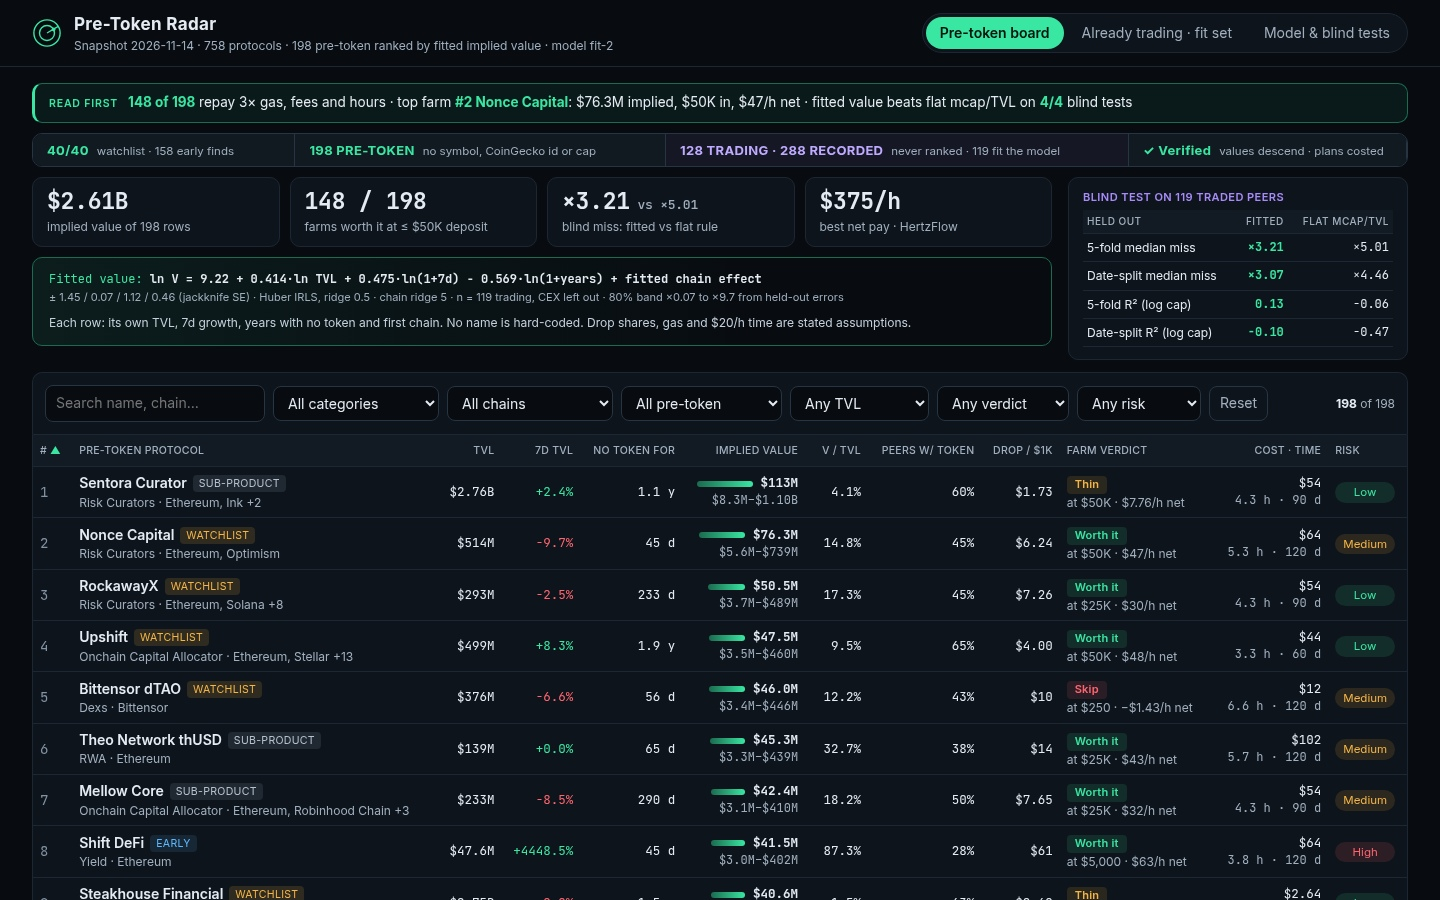
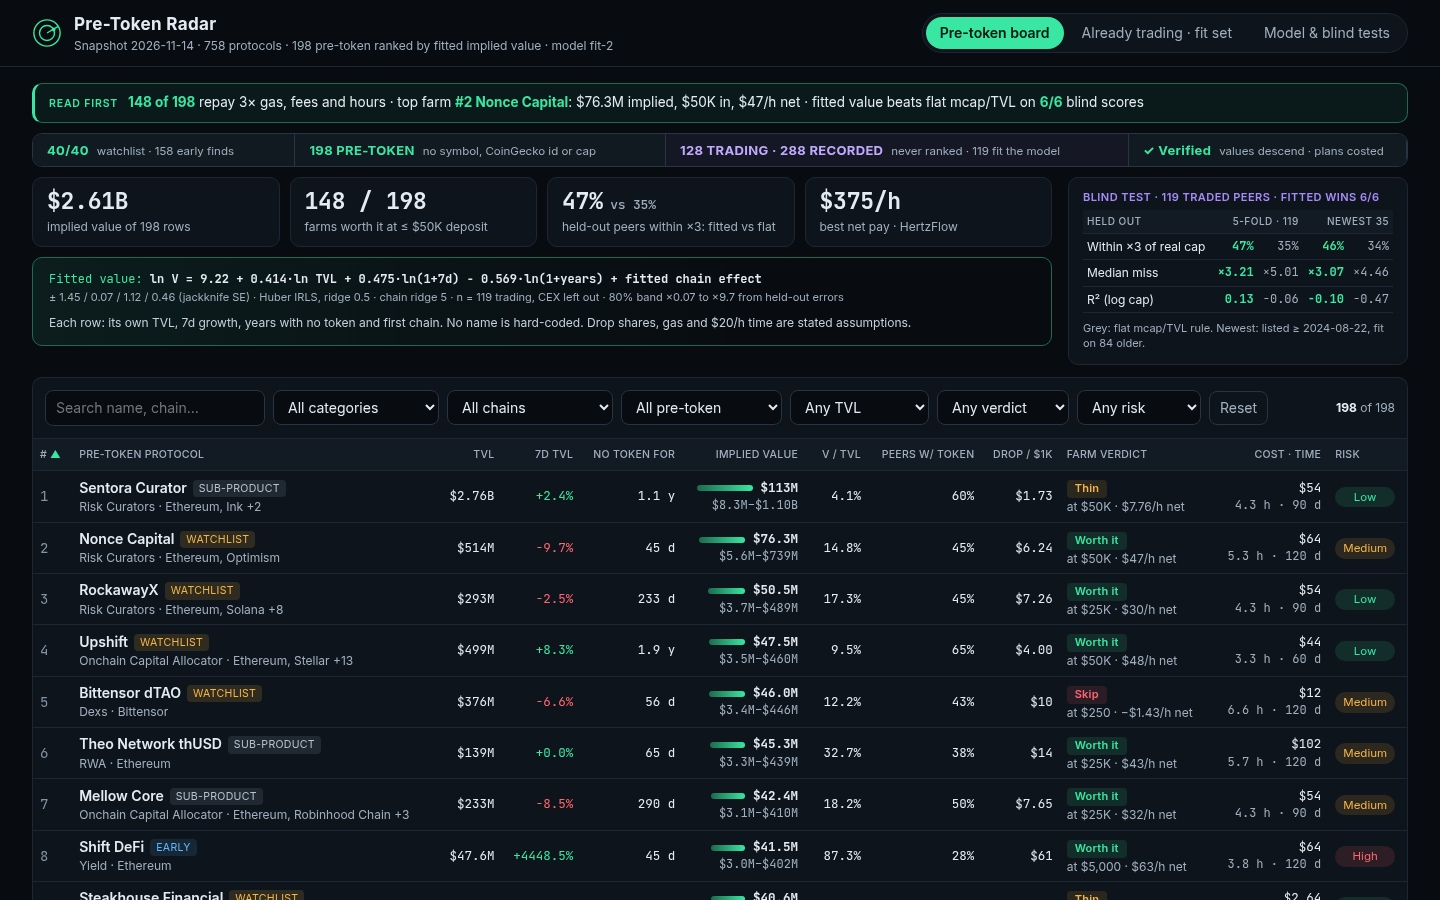
Blind tests as a metric matrix with within-x3 hit rate, risk line above the fold, sharper brief

diff --git a/dashboard/app.js b/dashboard/app.js
@@ -141,15 +141,20 @@
   }
 
   // Blind tests on the traded peers: the fitted equation against a flat mcap/TVL rule, same folds, same split.
-  var TESTS = [['5-fold median miss', F.cv.med_err_x, F.baseline_cv.med_err_x, -1], ['Date-split median miss', F.walk.med_err_x, F.baseline_walk.med_err_x, -1],
-    ['5-fold R² (log cap)', F.cv.r2, F.baseline_cv.r2, 1], ['Date-split R² (log cap)', F.walk.r2, F.baseline_walk.r2, 1]];
-  var WINS = TESTS.filter(function (t) { return (t[1] - t[2]) * t[3] > 0; }).length;
+  // Each metric is scored on both held-out sets; a win is a better number than the flat rule on the same rows.
+  var TESTS = [['Within ×3 of real cap', 'hit3', 1], ['Median miss', 'med_err_x', -1], ['R² (log cap)', 'r2', 1]];
+  var PAIRS = [[F.cv, F.baseline_cv], [F.walk, F.baseline_walk]];
+  var WINS = 0;
+  TESTS.forEach(function (t) { PAIRS.forEach(function (p) { if ((p[0][t[1]] - p[1][t[1]]) * t[2] > 0) WINS++; }); });
+  var NTESTS = TESTS.length * PAIRS.length;
+  function fmtT(t, x) { return t[1] === 'hit3' ? Math.round(100 * x) + '%' : t[1] === 'med_err_x' ? '×' + f2(x) : f2(x); }
   function blindBox() {
-    return '<div class="scbox"><span class="cap">BLIND TEST ON ' + F.n + ' TRADED PEERS</span><table class="mini"><thead><tr><th>held out</th><th class="n">fitted</th><th class="n">flat mcap/TVL</th></tr></thead><tbody>' +
+    return '<div class="scbox"><span class="cap">BLIND TEST · ' + F.n + ' TRADED PEERS · FITTED WINS ' + WINS + '/' + NTESTS + '</span><table class="mini"><thead><tr><th>held out</th><th class="n" colspan="2">5-fold · ' + F.cv.n + '</th><th class="n" colspan="2">newest ' + F.walk.n + '</th></tr></thead><tbody>' +
       TESTS.map(function (t) {
-        var fx = function (x) { return t[3] < 0 ? '×' + f2(x) : f2(x); };
-        return '<tr><td>' + t[0] + '</td><td class="n"><b class="' + ((t[1] - t[2]) * t[3] > 0 ? 'up' : 'down') + '">' + fx(t[1]) + '</b></td><td class="n">' + fx(t[2]) + '</td></tr>';
-      }).join('') + '</tbody></table></div>';
+        return '<tr><td>' + t[0] + '</td>' + PAIRS.map(function (p) {
+          return '<td class="n"><b class="' + ((p[0][t[1]] - p[1][t[1]]) * t[2] > 0 ? 'up' : 'down') + '">' + fmtT(t, p[0][t[1]]) + '</b></td><td class="n flat">' + fmtT(t, p[1][t[1]]) + '</td>';
+        }).join('') + '</tr>';
+      }).join('') + '</tbody></table><p class="bnote">Grey: flat mcap/TVL rule. Newest: listed ≥ ' + esc(F.walk.cut) + ', fit on ' + F.walk.n_train + ' older.</p></div>';
   }
   function hero() {
     var worth = R.rows.filter(function (r) { return r.plan.verdict.label === 'Worth it'; });
@@ -158,10 +163,10 @@
     var k = [
       [money(sum(R.rows, function (r) { return r.implied_value_usd; })), 'implied value of ' + R.rows.length + ' rows'],
       [worth.length + ' / ' + R.rows.length, 'farms worth it at ≤ ' + money(M.deposit_max) + ' deposit'],
-      ['×' + f2(F.cv.med_err_x) + '<small> vs ×' + f2(F.baseline_cv.med_err_x) + '</small>', 'blind miss: fitted vs flat rule'],
+      [Math.round(100 * F.cv.hit3) + '%<small> vs ' + Math.round(100 * F.baseline_cv.hit3) + '%</small>', 'held-out peers within ×3: fitted vs flat'],
       [money(fast.plan.verdict.usd_per_hour) + '/h', 'best net pay · ' + esc(fast.name)],
     ];
-    return '<p class="headline"><span>Read first</span><b>' + worth.length + ' of ' + R.rows.length + '</b> repay ' + M.worth_ratio + '× gas, fees and hours · top farm <b>#' + top.rank + ' ' + esc(top.name) + '</b>: ' + money(top.implied_value_usd) + ' implied, ' + money(top.plan.verdict.deposit_usd) + ' in, ' + money(top.plan.verdict.usd_per_hour) + '/h net · fitted value beats flat mcap/TVL on <b>' + WINS + '/' + TESTS.length + '</b> blind tests</p>' +
+    return '<p class="headline"><span>Read first</span><b>' + worth.length + ' of ' + R.rows.length + '</b> repay ' + M.worth_ratio + '× gas, fees and hours · top farm <b>#' + top.rank + ' ' + esc(top.name) + '</b>: ' + money(top.implied_value_usd) + ' implied, ' + money(top.plan.verdict.deposit_usd) + ' in, ' + money(top.plan.verdict.usd_per_hour) + '/h net · fitted value beats flat mcap/TVL on <b>' + WINS + '/' + NTESTS + '</b> blind scores</p>' +
       strip() + '<section class="hero"><div><div class="kpis">' + k.map(function (v) { return '<div class="kpi"><b>' + v[0] + '</b><span>' + v[1] + '</span></div>'; }).join('') + '</div>' +
       '<div class="formula"><i>Fitted value: </i>' + equation() +
       '<p class="judge">Each row: its own TVL, 7d growth, years with no token and first chain. No name is hard-coded. Drop shares, gas and $' + M.time_usd_per_hour + '/h time are stated assumptions.</p></div></div>' +
@@ -249,9 +254,10 @@
       '<div class="detail-grid"><section><h3>The value as an equation</h3>' + eqTable(r) +
       '<h3>Airdrop math</h3><div class="calc">pool = <b>' + money(r.implied_value_usd) + '</b> × ' + (r.airdrop_share * 100).toFixed(0) + '% community share = <b>' + money(r.airdrop_pool_usd) + '</b> · per $1k = pool × ' + (M.depositor_share * 100) + '% to depositors × $1,000 / TVL = <b>' + money(r.per_1k_usd) + '</b></div>' +
       '<h3>Verdict · ' + vtag(v) + '</h3><p class="vtext v-' + v.label.replace(' ', '') + '">' + esc(v.text) + '</p><details open><summary>Same plan at other deposit sizes</summary>' + tiers(r) + '</details>' +
-      '<h3>Risk · <span class="risk r-' + r.risk.level + '">' + r.risk.level + ' ' + r.risk.score + '/100</span> <span class="rnote">' + esc(r.risk.notes.join('; ')) + '</span></h3></section><section>' +
+      '</section><section>' +
       '<h3>Conditional farm route · ' + esc(p.chain) + ' · ' + esc(p.wallet) + ' · ' + money(p.capital_usd) + '</h3><p class="route-note">Category-derived route. Verify assets, deployment and withdrawals in the official app before funding. Costs below are budget assumptions, not live quotes.</p><table class="plan"><tbody>' + plan + '</tbody></table>' +
       '<div class="totals"><div><b>' + money(p.total_cost_usd) + '</b><span>gas + fees, whole hold</span></div><div><b>' + p.setup_minutes + ' min</b><span>to set up</span></div><div><b>' + p.weekly_minutes + ' min/wk</b><span>upkeep · ' + p.hold_days + ' d hold</span></div><div><b>' + money(v.usd_per_hour) + '/h</b><span>net per hour of work</span></div></div>' +
+      '<p class="riskline"><span class="risk r-' + r.risk.level + '">' + r.risk.level + ' risk · ' + r.risk.score + '/100</span>' + esc(r.risk.notes.join('; ')) + '</p>' +
       '</section></div>' +
       '<p class="note">Implied value is this model\'s claim from the snapshot of ' + esc(R.as_of) + ', not a forecast that a token will launch. The record shows no token; that does not prove none exists.</p>';
   }
@@ -280,14 +286,14 @@
         return '<tr><td><span class="pname">' + esc(l.name) + '</span><span class="badge b-trade">' + esc(l.symbol || 'TOKEN') + '</span><div class="pmeta">' + esc(l.category || '') + '</div></td><td class="n">' + money(l.tvl_usd) + '</td><td class="n">' + money(l.mcap_usd) + '</td><td class="n">' + money(l.cv_pred_usd) + '</td><td class="n">' + (miss >= 1 ? '×' + miss.toFixed(1) : '÷' + (1 / miss).toFixed(1)) + '</td><td class="n">' + (l.wf_pred_usd ? money(l.wf_pred_usd) : '<span class="pmeta">train</span>') + '</td></tr>';
       }).join('') + '</tbody></table></div></div>' + modelCard() + '</div>';
   }
-  function scoreRow(name, s, note) { return '<tr><td>' + name + '</td><td class="n">' + s.n + '</td><td class="n">' + f2(s.r2) + '</td><td class="n">' + f2(s.rho) + '</td><td class="n">×' + f2(s.med_err_x) + '</td><td class="pmeta">' + note + '</td></tr>'; }
+  function scoreRow(name, s, note) { return '<tr><td>' + name + '</td><td class="n">' + s.n + '</td><td class="n">' + f2(s.r2) + '</td><td class="n">' + f2(s.rho) + '</td><td class="n">×' + f2(s.med_err_x) + '</td><td class="n">' + Math.round(100 * s.hit3) + '%</td><td class="pmeta">' + note + '</td></tr>'; }
   function modelCard() {
     return '<div class="card"><h2>The fitted equation</h2><p class="formula">' + equation() + '</p>' +
       '<table><thead><tr><th>term</th><th class="n">b</th><th class="n">SE</th><th class="n">5-fold R² without it</th></tr></thead><tbody>' + F.coef.map(function (c, i) {
         var ab = F.ablation.filter(function (a) { return a.term === c.term; })[0];
         return '<tr><td>' + esc(c.term) + '</td><td class="n"><b>' + c.b.toFixed(4) + '</b></td><td class="n">' + c.se.toFixed(4) + '</td><td class="n">' + (ab ? f2(ab.cv.r2) + ' vs ' + f2(F.cv.r2) : '–') + '</td></tr>';
       }).join('') + '</tbody></table>' +
-      '<h2>Held-out diagnostics · log market cap</h2><table><thead><tr><th>test</th><th class="n">n</th><th class="n">R²</th><th class="n">ρ</th><th class="n">median miss</th><th></th></tr></thead><tbody>' +
+      '<h2>Held-out diagnostics · log market cap</h2><table><thead><tr><th>test</th><th class="n">n</th><th class="n">R²</th><th class="n">ρ</th><th class="n">median miss</th><th class="n">within ×3</th><th></th></tr></thead><tbody>' +
       scoreRow('In sample', F.in_sample, 'not a test') + scoreRow('5-fold diagnostic', F.cv, 'fold = slug order mod ' + M.folds) + scoreRow('Flat ratio, 5-fold', F.baseline_cv, 'V = TVL × median mcap/TVL') +
       scoreRow('Walk-forward', F.walk, F.walk.n_train + ' older train, listed ≥ ' + esc(F.walk.cut) + ' test') + scoreRow('Flat ratio, walk-fwd', F.baseline_walk, 'same split') + '</tbody></table>' +
       '<p class="note">Feature families were explored on these splits: these are diagnostics, not untouched future tests. Walk-forward sorts listing dates within one snapshot; it is not a historical backtest. R² is measured on log market cap. The 80% band is the empirical 10th–90th percentile of fold residuals, not a calibrated launch forecast.</p>' +

diff --git a/main.ts b/main.ts
@@ -81,7 +81,9 @@ writeFileSync(join(out, 'dashboard', 'valuation.txt'), 'Executable valuation sou
   const by = (l: string) => rows.filter((r) => r.plan.verdict.label === l);
   const worth = by('Worth it');
   const top = worth[0]!;
-  const tests: [string, { r2: number; med_err_x: number }, { r2: number; med_err_x: number }][] = [['5-fold', f.cv, f.baseline_cv], ['date split', f.walk, f.baseline_walk]];
+  const pairs = [[f.cv, f.baseline_cv], [f.walk, f.baseline_walk]] as const;
+  const pc = (x: number) => `${Math.round(100 * x)}%`;
+  const wins = pairs.reduce((n, [a, b]) => n + Number(a.hit3 > b.hit3) + Number(a.med_err_x < b.med_err_x) + Number(a.r2 > b.r2), 0);
   const eq = `ln V = ${f.coef[0]!.b.toFixed(2)} + ${f.coef[1]!.b.toFixed(3)}·ln TVL + ${f.coef[2]!.b.toFixed(3)}·ln(1+7d) ${f.coef[3]!.b < 0 ? '−' : '+'} ${Math.abs(f.coef[3]!.b).toFixed(3)}·ln(1+years with no token) + chain effect`;
   const steps = rows.map((r) => r.plan.steps.length);
   writeFileSync(join(out, 'dashboard', 'README.md'), [
@@ -91,10 +93,10 @@ writeFileSync(join(out, 'dashboard', 'valuation.txt'), 'Executable valuation sou
     `## Findings`,
     `- **Coverage.** ${c.covered}/${c.watchlist} watchlist + ${c.early} off-watchlist finds = ${c.ranked} pre-token rows (no symbol, no CoinGecko id, no cap). ${c.trading} trading protocols are never ranked; the ${c.fit_set} without CEX fit the model.`,
     `- **Value.** \`${eq}\`, Huber-fitted on ${f.n} traded peers (TVL slope ±${f.coef[1]!.se.toFixed(2)} SE). One function, valueOf, prices every row; no name list.`,
-    `- **Blind tests** (fitted vs flat mcap/TVL rule): ${tests.map(([n, a, b]) => `${n} median miss ×${a.med_err_x.toFixed(2)} vs ×${b.med_err_x.toFixed(2)}, R² ${a.r2.toFixed(2)} vs ${b.r2.toFixed(2)}`).join('; ')}.`,
-    `- **Farms.** ${worth.length} Worth it, ${by('Thin').length} Thin, ${by('Skip').length} Skip. Every plan has ${Math.min(...steps)}–${Math.max(...steps)} steps, each with its $ gas/fee, minutes and day. Each plan is sized to the smallest deposit where the drop repays ${m.worth_ratio}× gas, fees and hours at $${m.time_usd_per_hour}/h. Top farm: #${top.rank} ${top.name}, ${usd(top.implied_value_usd)} implied, ${usd(top.plan.verdict.deposit_usd)} in, $${top.plan.verdict.usd_per_hour}/h net.`,
+    `- **Blind tests** (fitted vs a flat mcap/TVL rule on the same held-out rows; fitted wins ${wins}/${pairs.length * 3}): within ×3 of the real cap ${pc(f.cv.hit3)} vs ${pc(f.baseline_cv.hit3)} on 5-fold (n ${f.cv.n}) and ${pc(f.walk.hit3)} vs ${pc(f.baseline_walk.hit3)} on the newest ${f.walk.n} listings (trained on the ${f.walk.n_train} older); median miss ×${f.cv.med_err_x.toFixed(2)} vs ×${f.baseline_cv.med_err_x.toFixed(2)} and ×${f.walk.med_err_x.toFixed(2)} vs ×${f.baseline_walk.med_err_x.toFixed(2)}; R² ${f.cv.r2.toFixed(2)} vs ${f.baseline_cv.r2.toFixed(2)} and ${f.walk.r2.toFixed(2)} vs ${f.baseline_walk.r2.toFixed(2)}.`,
+    `- **Farms.** ${worth.length} Worth it, ${by('Thin').length} Thin, ${by('Skip').length} Skip. Every plan has ${Math.min(...steps) === Math.max(...steps) ? Math.min(...steps) : `${Math.min(...steps)}–${Math.max(...steps)}`} steps, each with its $ gas/fee, minutes and day. Each plan is sized to the smallest deposit where the drop repays ${m.worth_ratio}× gas, fees and hours at $${m.time_usd_per_hour}/h. Top farm: #${top.rank} ${top.name}, ${usd(top.implied_value_usd)} implied, ${usd(top.plan.verdict.deposit_usd)} in, $${top.plan.verdict.usd_per_hour}/h net.`,
     `## Limits`,
-    `- The fit is modest: errors are wide (80% band ×${Math.exp(f.band.q10).toFixed(2)}–×${Math.exp(f.band.q90).toFixed(1)}, shown on every row), and the date-split R² is still below zero.`,
+    `- The fit is modest: errors are wide (80% band ×${Math.exp(f.band.q10).toFixed(2)}–×${Math.exp(f.band.q90).toFixed(1)}, shown on every row), and on the newest listings R² is below zero (levels drift by listing date), so read a row's value as a ranked estimate with its band, not a price.`,
     `- Drop shares (${m.depositor_share * 100}% of the pool to depositors), gas and the time price are stated assumptions. The snapshot has no contracts, so each route says to verify assets in the app.`,
     `## Code map`,
     `app.js: hero, blindBox, filtered, eqTable, detail, tiers. valuation.txt: the fitting and pricing functions, copied verbatim from lib/model.ts.`,

diff --git a/lib/model.ts b/lib/model.ts
@@ -180,7 +180,7 @@ export interface LiveRow {
   wf_pred_usd: number | null;
 }
 
-export interface Score { n: number; r2: number; rho: number; med_err_x: number }
+export interface Score { n: number; r2: number; rho: number; med_err_x: number; hit3: number }
 
 export interface Fit {
   n: number;
@@ -332,7 +332,7 @@ function rankOf(v: number[]): number[] {
   return r;
 }
 
-/** Held-out score: R^2, Spearman's rho and the median error as a factor (x2 = off by half or double). */
+/** Held-out score: R^2, Spearman's rho, the median error as a factor (x2 = off by half or double) and hit3, the share within x3. */
 export function score(y: number[], yh: number[]): Score {
   const m = y.reduce((s, v) => s + v, 0) / y.length;
   let ss = 0;
@@ -342,7 +342,7 @@ export function score(y: number[], yh: number[]): Score {
   const rb = rankOf(yh);
   const n = y.length;
   const d2 = ra.reduce((s, v, i) => s + (v - rb[i]!) ** 2, 0);
-  return { n, r2: r4(1 - sr / ss), rho: r4(1 - (6 * d2) / (n * (n * n - 1))), med_err_x: r4(Math.exp(median(y.map((v, i) => Math.abs(v - yh[i]!))))) };
+  return { n, r2: r4(1 - sr / ss), rho: r4(1 - (6 * d2) / (n * (n * n - 1))), med_err_x: r4(Math.exp(median(y.map((v, i) => Math.abs(v - yh[i]!))))), hit3: r4(y.filter((v, i) => Math.abs(v - yh[i]!) < Math.log(3)).length / n) };
 }
 
 export function fitSet(snapshot: Snapshot): SnapshotProtocol[] {

diff --git a/dashboard/app.css b/dashboard/app.css
@@ -229,3 +229,10 @@ body { overflow-x: hidden; }
 .plan td.c { width: 140px; }
 .rnote { text-transform: none; letter-spacing: 0; font-weight: 400; color: var(--muted); font-size: 12px; margin-left: 6px; }
 details .eqt { margin-top: 6px; }
+.mini td.flat { color: var(--muted); }
+.mini th[colspan] { text-align: right; }
+.scbox .bnote { margin: 4px 0 0; font-size: 11px; line-height: 1.4; color: var(--muted); }
+.scbox .bnote b { color: var(--signal); }
+.riskline { margin: 10px 0 0; font-size: 12px; color: var(--muted); display: flex; gap: 10px; align-items: baseline; line-height: 1.45; }
+.riskline .risk { flex: none; }
+.scbox .mini td { padding: 4px; }
